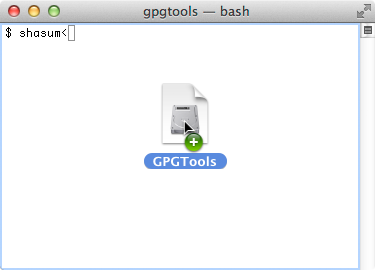
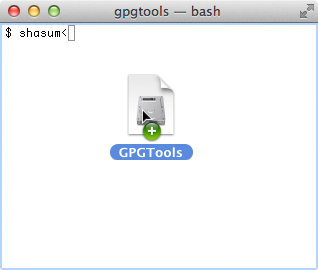
New images for hash verification.

diff --git a/views/modals/hash-verification.html b/views/modals/hash-verification.html
@@ -20,10 +20,10 @@
 		<div class="switcher">
 			
 			<div class="panel">
-				<img class="verification-image current-image" src="images/verification/<?= $texts['steps']['0']['small-image'] ?>" alt="" width="375" height="270" />
-				<img class="verification-image" src="" alt="" width="375" height="270" />
+				<img class="verification-image current-image" src="images/verification/<?= $texts['steps']['0']['small-image'] ?>" alt="" width="318" height="270" />
+				<img class="verification-image" src="" alt="" width="318" height="270" />
 				
-				<div class="placeholder" style=" width:375px; height:270px;" />
+				<div class="placeholder" style=" width:318px; height:270px;" />
 
 				<script>
 					var hash_verification_images=new Array(""<?

diff --git a/css/main.css b/css/main.css
@@ -575,7 +575,7 @@ section.gpgservices header { background: url(../images/section/gpgservices-new-l
 .modal.signature-verification-page { font-family: "futura-pt"; font-size: 15px; color: #8c8c8c; 
 	width: 640px; padding: 10px; }
 .modal.signature-verification-page.hash-verification {
-	width: 715px; }
+	width: 658px; }
 
 .modal.signature-verification-page .intro, .modal.signature-verification-page .switcher {
 	padding: 10px 10px; width: 300px;
